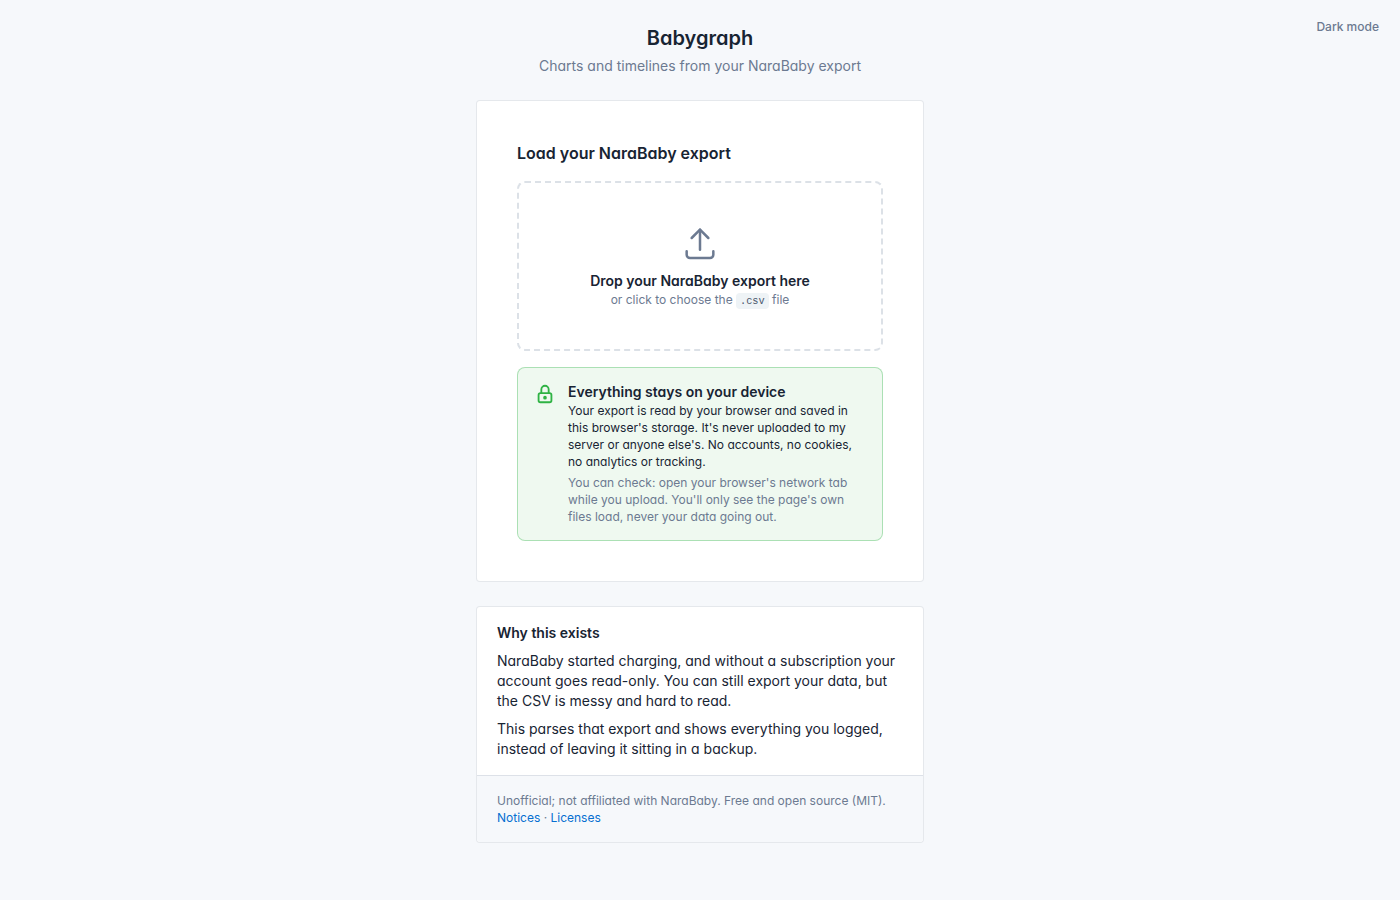
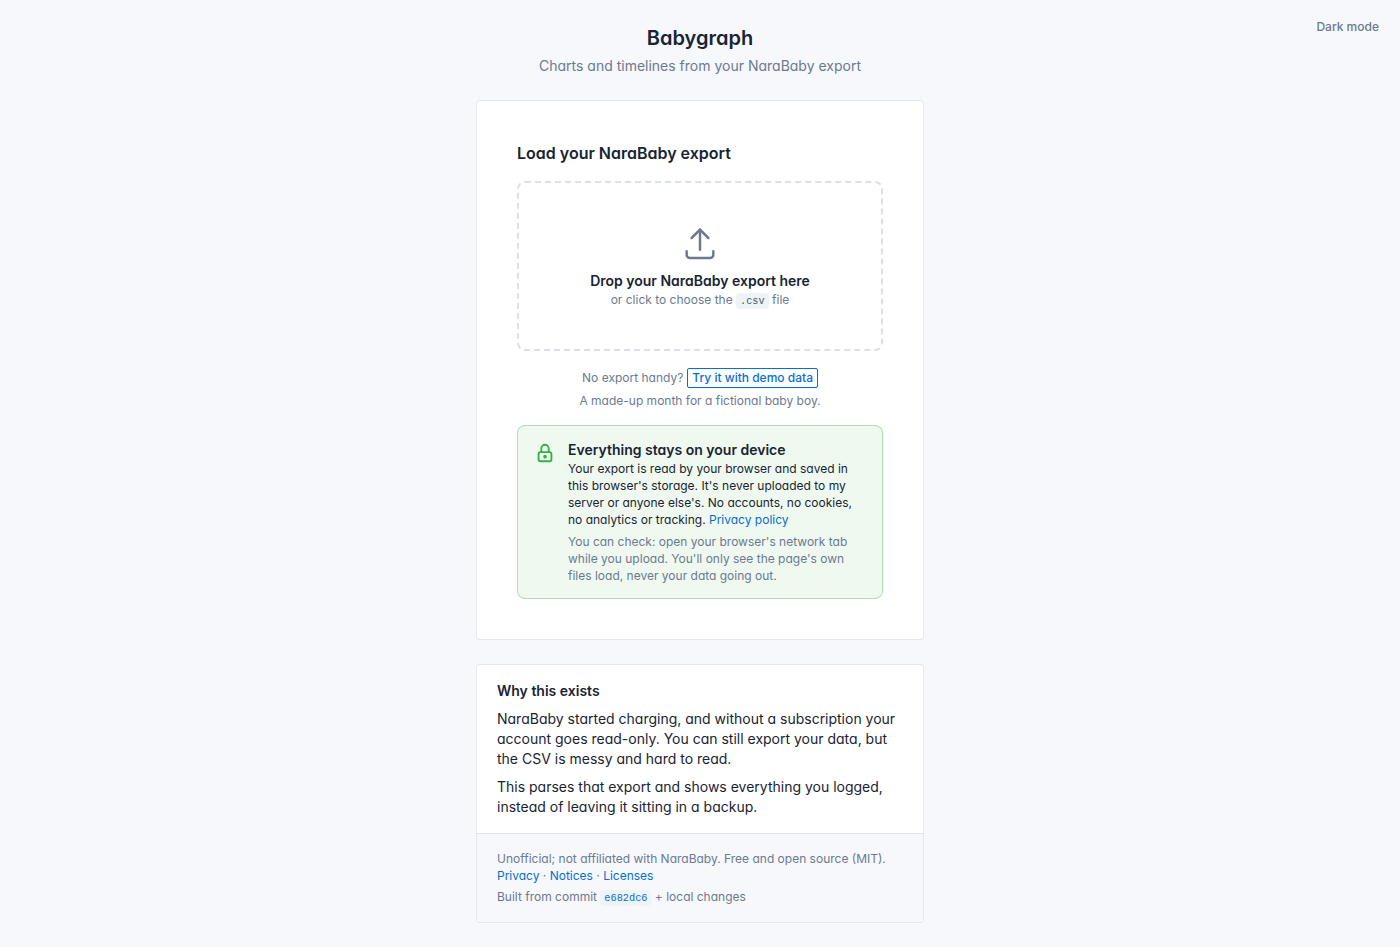
load demo

diff --git a/src/Landing.vue b/src/Landing.vue
@@ -31,6 +31,22 @@ async function handleFile(file) {
   }
 }
 
+// The fake boy export from fixtures/, bundled as its own chunk so it only downloads when asked for
+const DEMO_NAME = "Demo data (Test Boy, made up)";
+async function loadDemo() {
+  if (stored && !window.confirm("Load the demo? It replaces the export loaded in this browser. Photos you added are kept.")) return;
+  error.value = "";
+  busy.value = true;
+  try {
+    const { default: csv } = await import("../fixtures/narababy_fake_boy_export.csv?raw");
+    saveImport(parseNaraExport(csv, DEMO_NAME), DEMO_NAME);
+    window.location.assign("./dashboard.html");
+  } catch (e) {
+    error.value = e.message || "Couldn't load the demo data.";
+    busy.value = false;
+  }
+}
+
 function onDrop(e) {
   dragDepth.value = 0;
   handleFile(e.dataTransfer.files[0]);
@@ -82,6 +98,14 @@ const openPicker = () => !busy.value && fileInput.value.click();
             <div id="drop-help" class="text-secondary small">or click to choose the <code>.csv</code> file</div>
           </div>
           <input ref="fileInput" type="file" accept=".csv,text/csv" class="d-none" @change="onPick">
+
+          <div class="text-center mt-3">
+            <span class="text-secondary small">No export handy?</span>
+            <button type="button" class="btn btn-sm btn-outline-primary ms-1" :disabled="busy" @click="loadDemo">
+              Try it with demo data
+            </button>
+            <div class="text-secondary small mt-1">A made-up month for a fictional baby boy.</div>
+          </div>
 
           <div v-if="error" class="alert alert-danger mt-3 mb-0" role="alert">{{ error }}</div>
 

diff --git a/e2e/landing.e2e.js b/e2e/landing.e2e.js
@@ -59,6 +59,29 @@ test("Clear and upload removes the data and shows a notice", async () => {
   assert.equal(await t.page.evaluate(() => localStorage.getItem("nara-import")), null);
 });
 
+test("the demo button loads the made-up boy, labelled as demo data", async () => {
+  await t.page.click("text=Try it with demo data");
+  await t.page.waitForURL(/dashboard\.html#\/overview$/);
+  await t.page.waitForSelector("text=Latest growth");
+  assert.match(await t.page.textContent(".navbar-brand"), /Test Boy/);
+  assert.match(await t.page.textContent(".page-pretitle"), /Demo data \(Test Boy, made up\)/);
+});
+
+test("with an export already loaded, the demo asks before replacing it", async () => {
+  await t.upload(GIRL);
+  await t.page.goto(t.url("/index.html"));
+  t.page.once("dialog", (d) => d.dismiss());
+  await t.page.click("text=Try it with demo data");
+  await t.page.waitForTimeout(300);
+  assert.ok(t.page.url().endsWith("/index.html"), "stays put when cancelled");
+  assert.match(await t.page.textContent(".card-sm"), /Test Girl/);
+  t.page.once("dialog", (d) => d.accept());
+  await t.page.click("text=Try it with demo data");
+  await t.page.waitForURL(/dashboard\.html/);
+  await t.page.waitForSelector("text=Latest growth");
+  assert.match(await t.page.textContent(".navbar-brand"), /Test Boy/);
+});
+
 test("the file picker works, and the landing page then offers to reopen", async () => {
   await t.upload(BOY);
   assert.match(await t.page.textContent(".navbar-brand"), /Test Boy/);

diff --git a/PLAN.md b/PLAN.md
@@ -391,6 +391,12 @@ NaraBaby's export drops photos; only the app's internal file name survives, so n
   - Assert on counts, not Playwright element handles. A failing assert on a handle tries to print the whole object and ran the test process out of memory (SIGKILL).
   - `go()` waits for the page title to switch, because the old section's content lingers for a tick.
 
+### Demo data button (2026-10-29)
+- The landing page has "Try it with demo data" under the drop zone. It loads `fixtures/narababy_fake_boy_export.csv` (Test Boy, one made-up month) through the normal parser and saves it as "Demo data (Test Boy, made up)", which shows as the file name on the dashboard.
+- The CSV is a dynamic `import("…?raw")`, so Vite emits it as its own chunk (238 KB, 26 KB gzipped) that only downloads on click. It's a same-origin file, so the CSP and the "nothing is sent anywhere" test still hold.
+- If an export is already stored, it asks before replacing it. Added photos are kept; ones that don't match the demo show up as orphans in Firsts, same as any other new upload.
+- e2e: the demo loads Test Boy with the demo label; with an export stored, cancelling the confirm leaves it alone and accepting replaces it.
+
 ### Deployment: Caddy serves the files (2026-10-29)
 - **Decision:** no runtime container. The site is static and Caddy already runs on the host, so an nginx container behind Caddy added a process and a port for nothing. A first version did that (unprivileged nginx bound to 127.0.0.1:8090, which passed all tests), but it was replaced.
 - **Deploy:** `npm ci && npm run build`, then `rsync -a --delete dist/ server:/srv/babygraph/`.

diff --git a/README.md b/README.md
@@ -53,6 +53,9 @@ and any photos you add are stored in IndexedDB.
 Because it's all local, the data lives only in that browser. Clearing site data or switching browsers means
 uploading the export again, and photos you added need re-adding, so keep your originals.
 
+No export? "Try it with demo data" on the landing page loads the fake boy export from `fixtures/`. It's
+bundled with the site and only downloaded when you click, so it's still just the site's own files.
+
 Real exports are never committed: `.gitignore` excludes `export_narababy_*.csv`.
 
 ## Running it
